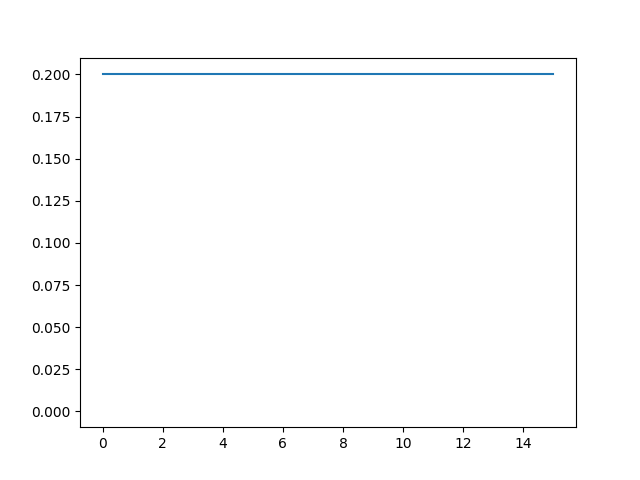
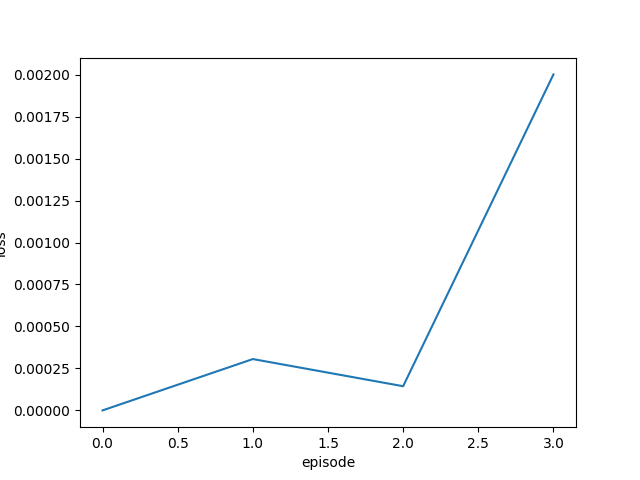
code refactoring

diff --git a/atari.py b/atari.py
@@ -1,13 +1,14 @@
 import gym
-import random
+import cv2
 import math
 import torch
+import random
 import torchbnn
-import matplotlib.pyplot as plt
 import numpy as np
-import cv2
-import torch.optim as optim
 import torch.nn as nn
+import torch.optim as optim
+import matplotlib.pyplot as plt
+import matplotlib.pyplot as plt
 import torch.nn.functional as F
 
 """
@@ -16,25 +17,17 @@ all observation spaces have shape: Box(0, 255, (210, 160, 3), uint8)
 state[0] is a list of length 210
 state[0][0] is a list of length 160
 state[0][0][0] is a list of length 3
-
-so basically state[0] is the actual state we need to pass to the neural net
-
-and state[1] will return something like {'lives': 5, 'episode_frame_number': 0, 'frame_number': 0}
 """
 
-# project description says to use v0
-# doing so gives an out of date warning so we might have to ask
-
-# all action spaces are discrete
-# action_space = 4
+# the action_spaces are: 4, 6, 18
 env_breakout = gym.make('Breakout-v0')
-# action_space = 6
-env_space_invaders = gym.make('SpaceInvaders-v4')
-# action_space = 18
-env_tennis = gym.make('Tennis-v4')
+#env_space_invaders = gym.make('SpaceInvaders-v0')
+#env_tennis = gym.make('Tennis-v0')
 
 EPS_DECAY = 0.99  # e-greedy threshold decay
 BATCH_SIZE = 256  # Q-learning batch size
+EPISODES = 4
+LEARNING_RATE = 0.00025
 
 device = torch.device('cuda' if torch.cuda.is_available() else 'cpu')
 print(device)
@@ -99,7 +92,7 @@ class SARSA():
     self.num_actions = num_actions
     self.discount_factor = discount_factor
     self.steps_done = 0
-    self.eps_threshold = 1
+    self.eps_threshold = 0.9
     self.max_steps_per_episode = 10000
     super().__init__()
   
@@ -143,11 +136,6 @@ class SARSA():
     image_tensor = torch.from_numpy(image_tensor)
     return image_tensor
 
-  """def reshape_image(self, image):
-    image = cv2.resize(image, dsize=(84, 84), interpolation=cv2.INTER_CUBIC) # change resoluation to 84x84
-    image = image[:, :, :1] # keep only on image channel
-    return image"""
-
   def learn_SARSA(self):
     if len(self.memory) > BATCH_SIZE:
       transitions = self.memory.sample(BATCH_SIZE)
@@ -161,8 +149,8 @@ class SARSA():
       batch_done = torch.tensor(batch_done).to(device)
 
       current_q_values = self.policy(batch_state).gather(1, batch_action.unsqueeze(1)) # Q(St, At)
-      next_q_values = self.policy(batch_next_state).gather(1, torch.tensor(batch_next_action).unsqueeze(1)) # Q(St+1, At+1)
-      expected_q_values = torch.tensor(batch_reward).unsqueeze(1) + (self.discount_factor * next_q_values)
+      next_q_values = self.policy(batch_next_state).gather(1, batch_next_action.unsqueeze(1)) # Q(St+1, At+1)
+      expected_q_values = batch_reward.unsqueeze(1) + (self.discount_factor * next_q_values)
 
       loss = F.mse_loss(current_q_values, expected_q_values.view(-1, 1))
       self.optimizer.zero_grad()
@@ -172,24 +160,29 @@ class SARSA():
       return loss.cpu().detach().numpy()
     return 0
 
-EPISODES = 5
-LEARNING_RATE = 0.00025
-env = env_breakout
-print(env.action_space.n)
-agent = SARSA(env, env.action_space.n, learning_rate=LEARNING_RATE)
-rewards = []
-losses = []
-ln = list(range(0, EPISODES))
-for e in range(EPISODES):
-  print("episode:", e)
-  state = env.reset()
-  reward, loss = agent.train(state)
-  rewards.append(reward)
-  losses.append(loss)
+def train(savefig=True):
+  env = env_breakout
+  agent = SARSA(env, env.action_space.n, learning_rate=LEARNING_RATE)
+  rewards = []
+  losses = []
+  for e in range(EPISODES):
+    print("episode:", e)
+    state = env.reset()
+    reward, loss = agent.train(state)
+    rewards.append(reward)
+    losses.append(loss)
 
-import matplotlib.pyplot as plt
-plt.plot(np.convolve(rewards, np.ones(20) / 20, mode="valid"))
-plt.savefig('rewards.png')
+  if savefig:
+    plt.plot(rewards)
+    plt.ylabel('reward')
+    plt.xlabel('episode')
+    plt.savefig('rewards.png')
+    plt.clf()
 
-plt.plot(np.convolve(losses, np.ones(5) / 5, mode="valid"))
-plt.savefig('losses.png')
+    plt.plot(losses)
+    plt.ylabel('loss')
+    plt.xlabel('episode')
+    plt.savefig('losses.png')
+
+if __name__ == "__main__":
+  train(savefig=True)
